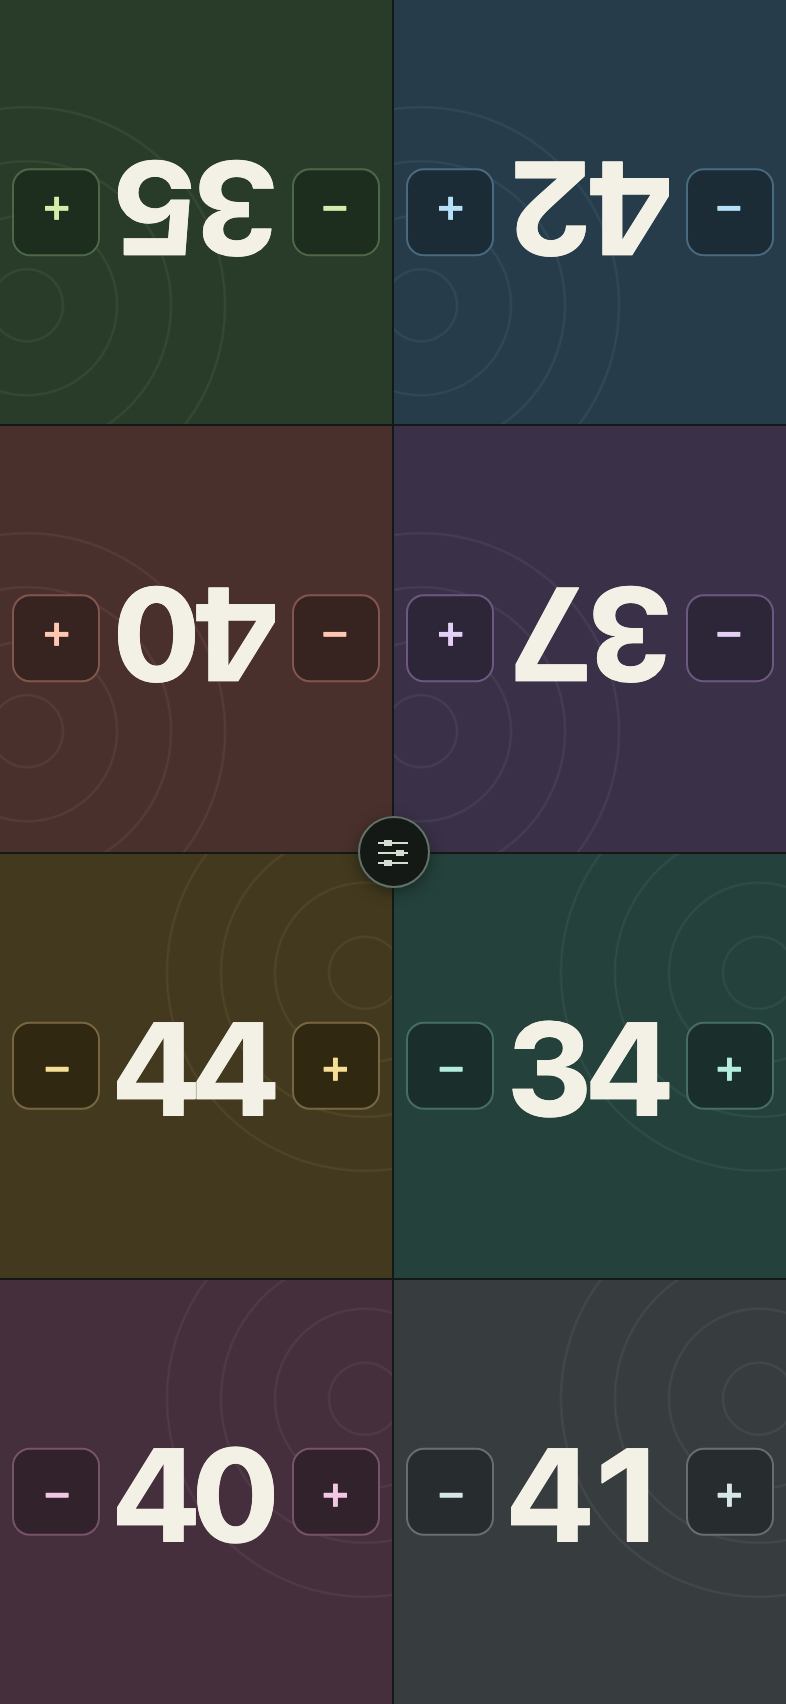
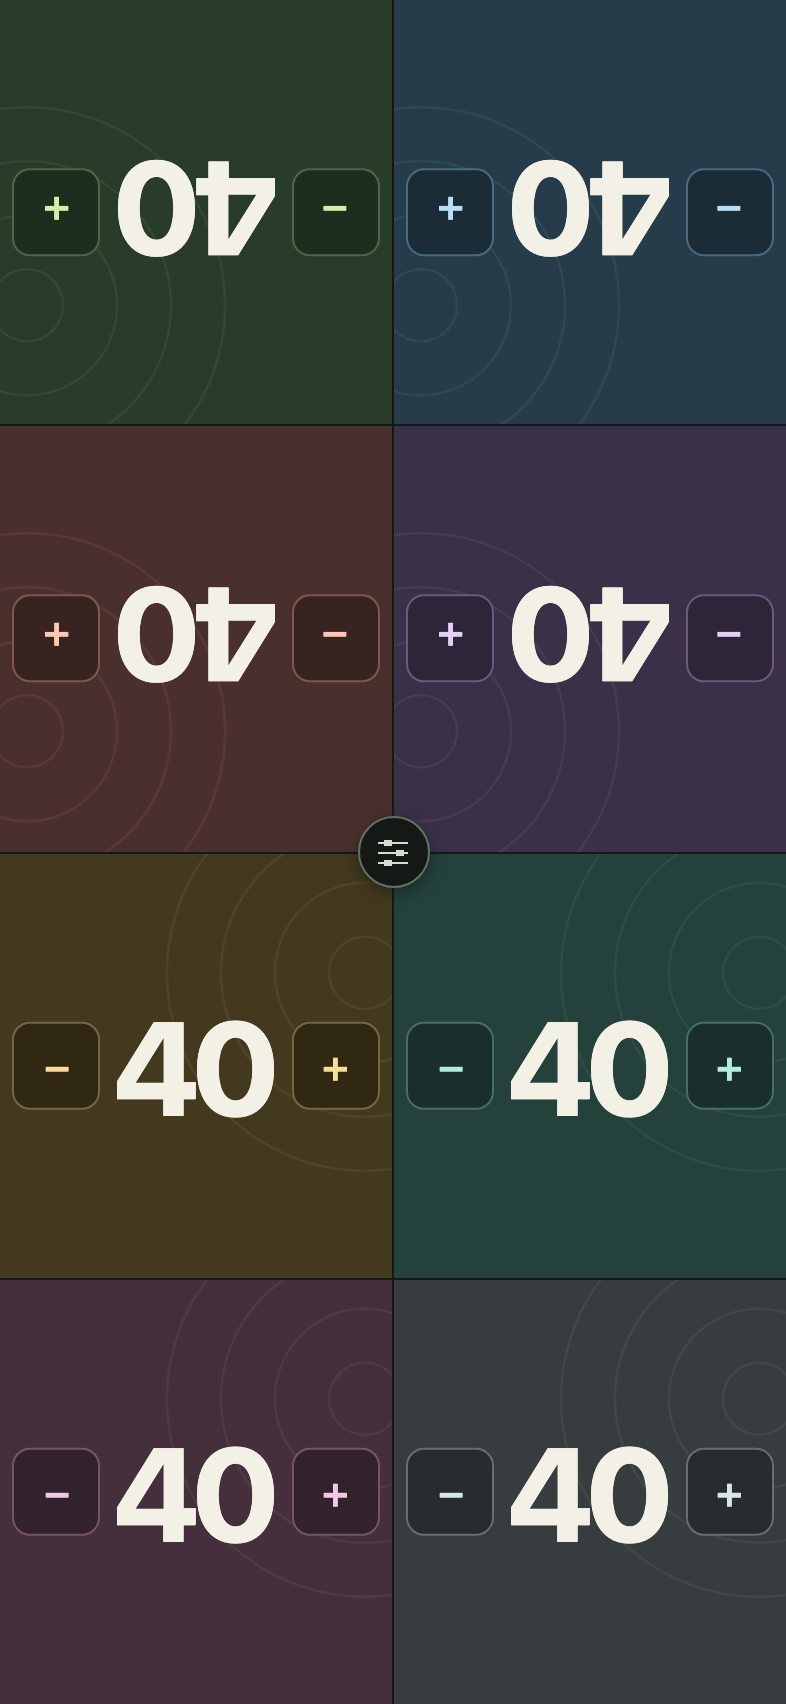
Show LifePod's default seating in the README

diff --git a/README.md b/README.md
@@ -19,14 +19,19 @@ A fresh install opens with four players at 40 life. Tap **−** or **+** to adju
 
 <div align="center">
 <a href="screenshots/board.png"><img src="screenshots/board.png" width="180" alt="Default four-player board with seats facing opposite ends of the table" /></a>
-<a href="screenshots/five-players.png"><img src="screenshots/five-players.png" width="180" alt="Five-player board with one seat spanning two slots" /></a>
-<a href="screenshots/eight-players.png"><img src="screenshots/eight-players.png" width="180" alt="Eight-player board mid-game" /></a>
+<a href="screenshots/eight-players.png"><img src="screenshots/eight-players.png" width="180" alt="Default eight-player board with four seats facing each end of the table" /></a>
 <a href="screenshots/setup.png"><img src="screenshots/setup.png" width="180" alt="Setup for player count, starting life, screen awake, and seat rotation" /></a>
 <br />
-<sub>Four players · Five players · Eight players · Setup</sub>
+<sub>Four players · Eight players · Setup</sub>
 </div>
 
-[Landscape layout](screenshots/five-players-landscape.png) · [Seat rotation](screenshots/rotate-seats.png)
+<div align="center">
+<a href="screenshots/five-players-landscape.png"><img src="screenshots/five-players-landscape.png" width="548" alt="Five-player landscape with green and blue facing the far edge, red and purple facing the near edge, and yellow facing the right edge" /></a>
+<br />
+<sub>Five players in landscape</sub>
+</div>
+
+[Five-player portrait](screenshots/five-players.png) · [Custom seat rotation](screenshots/rotate-seats.png)
 
 ## At the table
 
